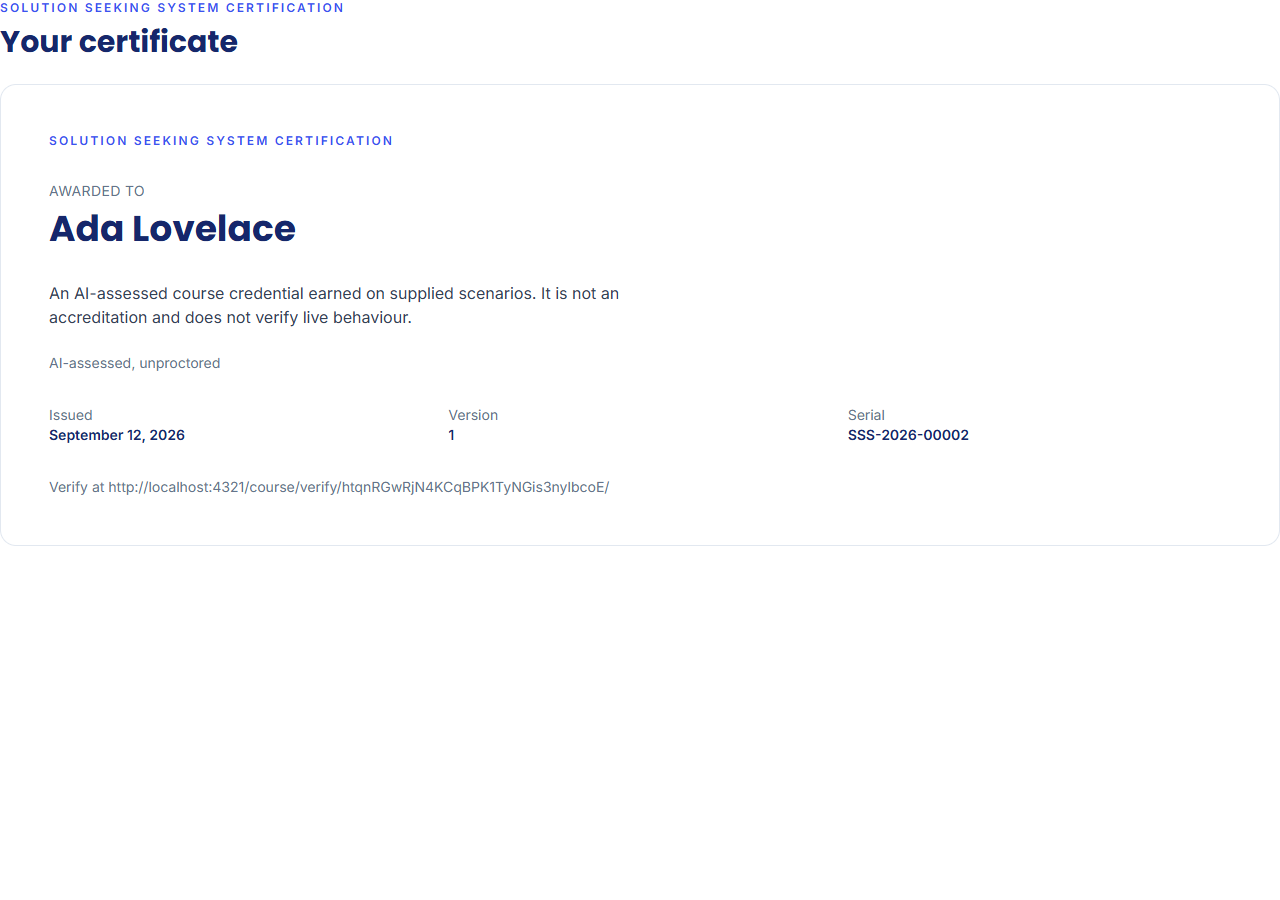
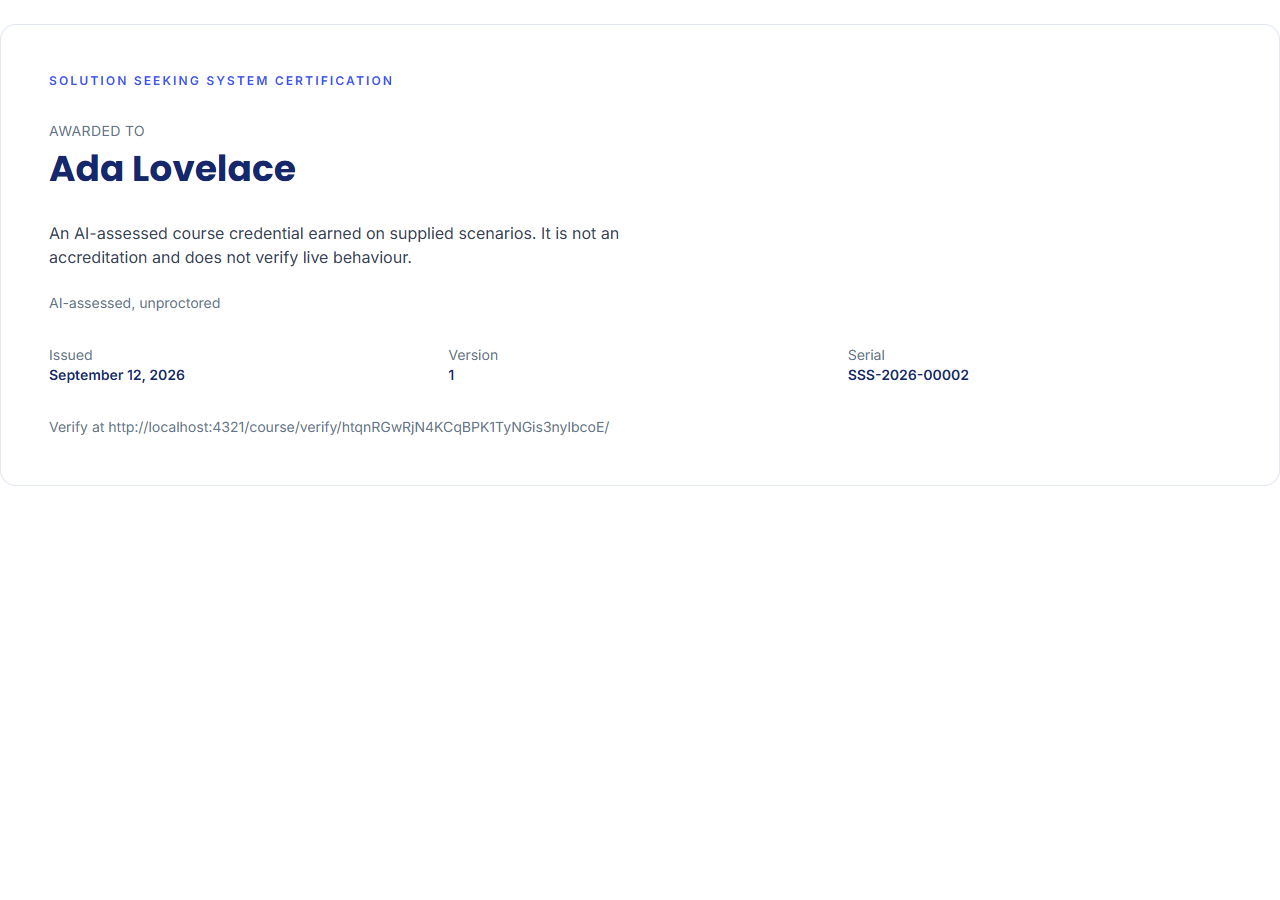
Apply the final fix wave for course Phase 3b
Ready-with-fixes items from the whole-branch review, ruled together by
the controller:

- Narrow the admin certificates listing to a column list without
  share_token, so the response no longer hands out every learner's
  verification link regardless of whether they turned sharing off.
- Mark the certificate page's page-level eyebrow and heading no-print,
  so the printed sheet no longer repeats its own title under a
  duplicate page heading; drop the certificate-sheet print rule's dead
  box-shadow reset and update the print block's comment to cover both
  worksheets and certificates.
- Rewrite the Revoke bullet in docs/deployment.md to say plainly that
  revoking cannot be undone anywhere in the product, and that righting
  a wrong revoke means changing the database row by hand.
- Strengthen the migration doc so it says the assessment route builds
  its status through the same certificate read, so a database missing
  migration 0032 breaks saving and submitting for anyone mid-attempt,
  not only the certificate page.
- Make the admin table's Link column read off for a revoked certificate
  even when share_active is still true, matching the Revoke dialog and
  the deployment doc.
- Make the admin table's Name column show a muted "not confirmed" note
  beside a display name that has not been confirmed, instead of
  reading as settled.
- Add a status check to certificateRecord so a revoked certificate's
  share_url is never built, and add a test covering a revoked row with
[…]

diff --git a/src/components/react/AdminView.tsx b/src/components/react/AdminView.tsx
@@ -1098,7 +1098,17 @@ function CertificatesTab({
               <tr key={r.id} className="border-t border-slate-100">
                 <td className="px-5 py-2.5 font-mono text-xs">{r.serial}</td>
                 <td className="px-5 py-2.5 font-mono text-xs text-slate-500">{r.user_id.slice(0, 8)}</td>
-                <td className="px-5 py-2.5">{r.display_name ?? <span className="text-slate-400">not confirmed</span>}</td>
+                <td className="px-5 py-2.5">
+                  {r.name_confirmed_at ? (
+                    r.display_name
+                  ) : r.display_name ? (
+                    <>
+                      {r.display_name} <span className="text-slate-400">not confirmed</span>
+                    </>
+                  ) : (
+                    <span className="text-slate-400">not confirmed</span>
+                  )}
+                </td>
                 <td className="px-5 py-2.5">{r.certification_version}</td>
                 <td className="px-5 py-2.5 text-slate-400">
                   {date(r.issued_at)} {time(r.issued_at)}
@@ -1106,7 +1116,7 @@ function CertificatesTab({
                 <td className="px-5 py-2.5">
                   <span className={`rounded-full px-2.5 py-0.5 text-xs font-semibold ${r.status === 'active' ? 'bg-emerald-50 text-emerald-700' : 'bg-rose-50 text-rose-700'}`}>{r.status}</span>
                 </td>
-                <td className="px-5 py-2.5 text-slate-500">{r.share_active ? 'on' : 'off'}</td>
+                <td className="px-5 py-2.5 text-slate-500">{r.status === 'active' && r.share_active ? 'on' : 'off'}</td>
                 <td className="px-5 py-2.5 text-slate-400">{r.email_sent_at ? `${date(r.email_sent_at)} ${time(r.email_sent_at)}` : 'no'}</td>
                 <td className="space-x-2 px-5 py-2.5">
                   {r.status === 'active' && (
@@ -1146,6 +1156,11 @@ function CertificatesTab({
           </tbody>
         </table>
       </section>
+      <p className="text-xs text-slate-400">
+        A date in Emailed means a send was attempted, so Resend is not offered for that row. If a
+        learner says the certificate email never arrived, the Resend log and the address on their
+        account are the next places to look.
+      </p>
       {dialog}
     </div>
   );

diff --git a/src/lib/server/course/adminCertificates.ts b/src/lib/server/course/adminCertificates.ts
@@ -3,7 +3,7 @@ import { supabaseAdmin } from '../supabaseAdmin';
 import { serverEnv } from '../env';
 import { COURSE } from '../../../data/course';
 import { findUserByEmail } from './adminEnrollment';
-import { CERTIFICATE_COLUMNS, certificateOrigin, type CertificateRow } from './certificates';
+import { ADMIN_CERTIFICATE_COLUMNS, CERTIFICATE_COLUMNS, certificateOrigin, type AdminCertificateRow, type CertificateRow } from './certificates';
 import { notifyLearnerOfCertificate } from './certificateEmail';
 import { supabaseJobStore } from './jobStore';
 
@@ -28,10 +28,10 @@ const SERIAL_RE = /^SSS-\d{4}-\d{5}$/i;
 const LIMIT = 100;
 
 /** `q` is a serial, an email, or a certification version; empty lists the newest. Pending passes are listed only for the empty query. */
-export async function listCertificatesForAdmin(q: string): Promise<{ rows: CertificateRow[]; pending: PendingPassRow[] }> {
+export async function listCertificatesForAdmin(q: string): Promise<{ rows: AdminCertificateRow[]; pending: PendingPassRow[] }> {
   const query = q.trim();
   // Filters first, then order and limit: the filter builder is what `.eq()` returns, so the reassignments type-check.
-  let builder = supabaseAdmin.from('course_certificates').select(CERTIFICATE_COLUMNS);
+  let builder = supabaseAdmin.from('course_certificates').select(ADMIN_CERTIFICATE_COLUMNS);
   if (SERIAL_RE.test(query)) builder = builder.eq('serial', query.toUpperCase());
   else if (query.includes('@')) {
     const account = await findUserByEmail(query);
@@ -40,7 +40,7 @@ export async function listCertificatesForAdmin(q: string): Promise<{ rows: Certi
   } else if (query) builder = builder.eq('certification_version', query);
   const { data, error } = await builder.order('issued_at', { ascending: false }).limit(LIMIT);
   if (error) throw new Error(`certificate list failed: ${error.message}`);
-  return { rows: (data ?? []) as CertificateRow[], pending: query ? [] : await listPendingPasses() };
+  return { rows: (data ?? []) as AdminCertificateRow[], pending: query ? [] : await listPendingPasses() };
 }
 
 /** Passed attempts at the current version whose learner has no certificate for it. */

diff --git a/src/lib/server/course/certificates.ts b/src/lib/server/course/certificates.ts
@@ -28,6 +28,17 @@ export interface CertificateRow extends CertificateRowLike {
   updated_at: string;
 }
 
+/**
+ * What the admin area may see: every certificate column except the share
+ * token. The token is the whole secret of a verification link, an operator
+ * never needs it, and a response that carries one hands out working links for
+ * learners who turned sharing off.
+ */
+export const ADMIN_CERTIFICATE_COLUMNS =
+  'id, serial, user_id, certification_version, attempt_id, display_name, name_confirmed_at, issued_at, status, revoked_at, revoke_reason, share_active, email_sent_at, issued_by, revoked_by, created_at, updated_at' as const;
+
+export type AdminCertificateRow = Omit<CertificateRow, 'share_token'>;
+
 const asRow = (data: unknown): CertificateRow => data as CertificateRow;
 
 /** Where share links and email links point: the deploy that is serving, production's own address in production. */

diff --git a/src/components/react/CertificateView.tsx b/src/components/react/CertificateView.tsx
@@ -99,8 +99,8 @@ export default function CertificateView(props: Props) {
   const { certificate } = payload;
   return (
     <div>
-      <p className="eyebrow">{props.certificationTitle}</p>
-      <h1 className="mt-2 font-heading text-3xl font-bold text-ink-800">Your certificate</h1>
+      <p className="no-print eyebrow">{props.certificationTitle}</p>
+      <h1 className="no-print mt-2 font-heading text-3xl font-bold text-ink-800">Your certificate</h1>
       {!certificate && <NoCertificate payload={payload} />}
       {certificate && certificate.status === 'revoked' && <Revoked certificate={certificate} supportContact={props.supportContact} />}
       {certificate && certificate.status === 'active' && !certificate.name_confirmed_at && <NameForm busy={busy} error={actionError} onConfirm={confirmName} />}

diff --git a/src/lib/course/__tests__/certificateRules.test.ts b/src/lib/course/__tests__/certificateRules.test.ts
@@ -63,5 +63,10 @@ describe('views', () => {
     expect(off.share_url).toBeNull();
     expect(JSON.stringify(off)).not.toContain(token);
     expect(Object.keys(off)).not.toContain('share_token');
+    // Revoked but still share_active with a token: the status check must win, since a revoked
+    // certificate's verification link is not supposed to resolve for anyone.
+    const revoked = certificateRecord({ ...row, status: 'revoked' }, 'https://example.com');
+    expect(revoked.share_url).toBeNull();
+    expect(JSON.stringify(revoked)).not.toContain(token);
   });
 });

diff --git a/src/lib/course/certificateRules.ts b/src/lib/course/certificateRules.ts
@@ -72,6 +72,6 @@ export function certificateRecord(row: CertificateRowLike, origin: string): Cert
     status: row.status,
     revoked_at: row.revoked_at,
     share_active: row.share_active,
-    share_url: row.share_active && row.share_token ? certificateShareUrl(origin, row.share_token) : null,
+    share_url: row.status === 'active' && row.share_active && row.share_token ? certificateShareUrl(origin, row.share_token) : null,
   };
 }

diff --git a/src/styles/global.css b/src/styles/global.css
@@ -93,7 +93,7 @@
   }
 }
 
-/* Printing a worksheet: the sheet and its title, nothing else. */
+/* Printing a worksheet or a certificate: the sheet alone, nothing else. */
 @media print {
   header,
   footer,
@@ -114,7 +114,6 @@
     padding: 0;
   }
   .certificate-sheet {
-    box-shadow: none;
     page-break-inside: avoid;
   }
 }

diff --git a/docs/features/course/README.md b/docs/features/course/README.md
@@ -58,10 +58,12 @@ rather than carrying a price.
 | ![Admin certificates tab](admin-certificates-1280.png) | **`admin-certificates-1280.png`**: `/admin` → Certificates. An active certificate with its Rename, Resend and Revoke actions, beside a revoked certificate showing the reason it was revoked. A revoked row keeps none of those actions, because there is nothing left for any of them to do. |
 | ![Certificate name confirmation](certificate-name-confirmation-1280.png) | **`certificate-name-confirmation-1280.png`**: the certificate page before a name is set. This form appears only until a name is confirmed, because the server refuses a second attempt at it, so the printed name is a single decision rather than something to keep tinkering with. |
 | ![Certificate issued](certificate-issued-1280.png) | **`certificate-issued-1280.png`**: the certificate once a name is confirmed. Nothing on the sheet is held back from the verify page, so the printed copy and the page a stranger opens cannot disagree. |
-| ![Certificate print view](certificate-print-1280.png) | **`certificate-print-1280.png`**: the same page under print media. The header, footer, nav and the print button drop out, leaving the sheet as the thing that actually goes onto paper or into a saved PDF. |
+| ![Certificate print view](certificate-print-1280.png) | **`certificate-print-1280.png`**: the same page under print media. The header, footer, nav, the page's own eyebrow and heading, the print button and the verification link section all drop out, leaving the sheet alone as the thing that actually goes onto paper or into a saved PDF. |
 | ![Verification link section, phone](certificate-link-390.png) | **`certificate-link-390.png`**: the verification link section at 390px. The sentence above the url is exact about what a stranger sees through it, which matters because this is the piece of a certificate a learner is actively choosing to hand out. |
 | ![Verify page, active](verify-active-1280.png) | **`verify-active-1280.png`**: `/course/verify/<token>` for a link that is turned on. A visitor sees exactly what the certificate page promises to show and nothing about who is asking, since the page takes no sign-in and asks nothing of them. |
 | ![Verify page, not active, phone](verify-not-active-390.png) | **`verify-not-active-390.png`**: the same page at 390px for a token that resolves to nothing. A revoked certificate, a link its owner turned off, and a token that was never real all land on this exact page, so no response tells a visitor which one they hit. |
 
 _Captured with a headless Chromium session against the local Supabase stack. The dark pill at
-the bottom of some shots is the Astro dev toolbar, not part of the feature._
+the bottom of some shots is the Astro dev toolbar, not part of the feature. The verification
+links visible in the certificate shots point at the local stack, so nobody mistakes them for a
+working link on the live site._

diff --git a/docs/deployment.md b/docs/deployment.md
@@ -858,7 +858,9 @@ packs, attempts, responses, grading jobs, grades, certificates, review requests)
 certificate email claim column, the audit columns, `issue_course_certificate`,
 `revoke_course_certificate`). Apply them before the deploy that needs them, and apply `0032`
 specifically before any deploy that carries the certificates work: the certificate reads select
-its new columns and fail against a database that does not have them.
+its new columns and fail against a database that does not have them. The assessment route builds
+its status through that same certificate read on every action, so a database missing `0032` does
+not merely break the certificate page: it takes out saving and submitting for anyone mid-attempt.
 
 ```bash
 npx supabase db push
@@ -1014,8 +1016,12 @@ the passes waiting.
 
 - **Issue**, for a pass in the pending list. One that already has a certificate is reported,
   not refused.
-- **Revoke** asks for a reason first. The verification link goes dark the moment it commits,
-  and there is no undo in the admin area.
+- **Revoke** asks for a reason first. The verification link goes dark the moment it commits.
+  Revoking is final as far as the product is concerned: nothing in the admin area or the
+  learner's own account can bring a certificate back once it is revoked. Putting a wrongly
+  revoked certificate right means changing the row in the database directly, by hand. That is
+  why the reason field is required, and why the dialog never lets a click alone confirm
+  anything: an admin has to write the reason down, and only then can they press Revoke.
 - **Rename** fixes a typo the learner reports after confirming their own name. The confirmation
   stands; only the printed name changes.
 - **Resend** sends the certificate email for one that never got out. It is offered only while
